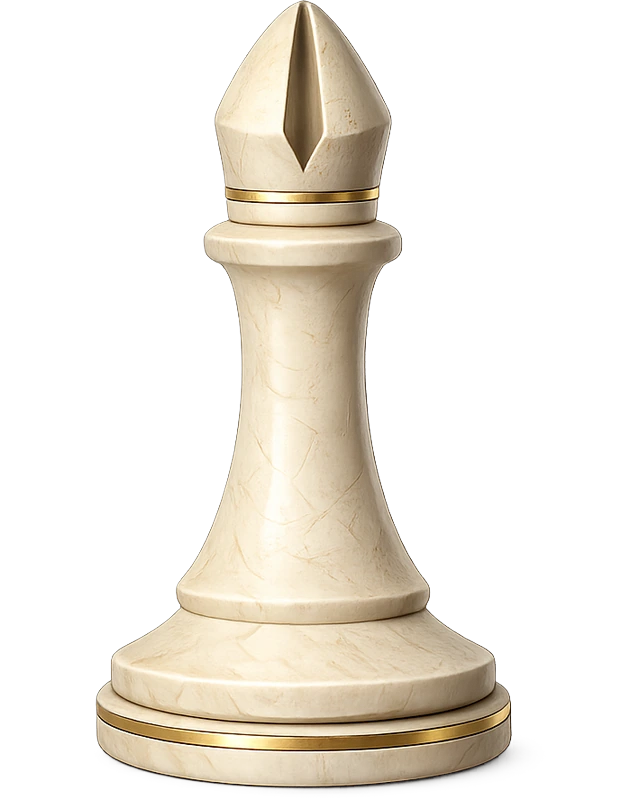
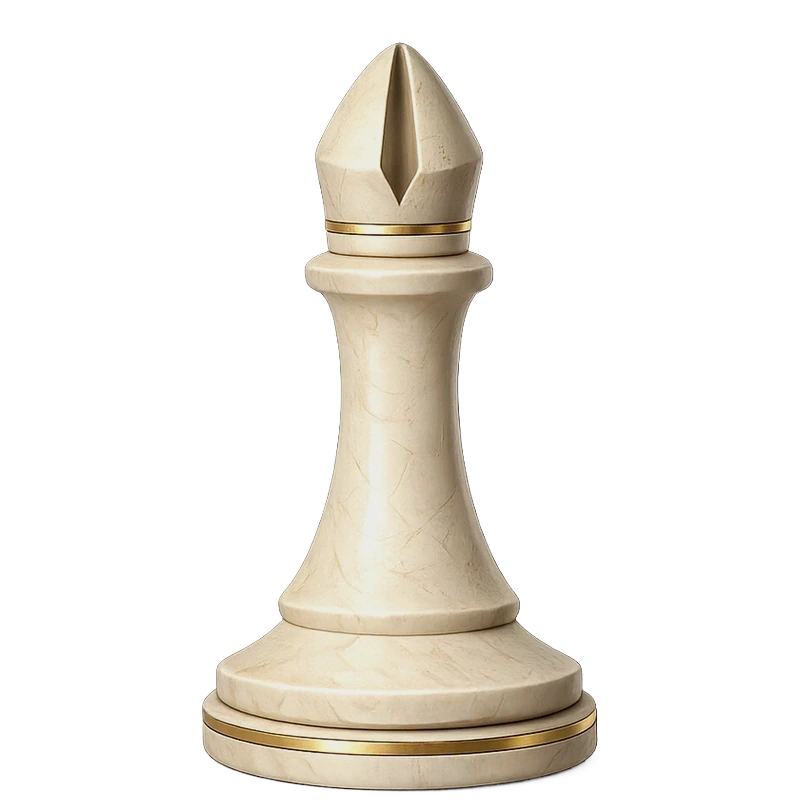
v0.87.0 KAMPAGNENFIGUREN ZURUECK - Regression aus v0.86 behoben: dort war die Figurenoptik an die Spielregeln gehaengt, und die fruehen Kampagnenstationen laufen nach Schachregeln, also standen dort Turnierfiguren statt der geschnitzten. Jetzt getrennt: klassikOptik (Aussehen, nie Kampagne) und schl

Changed region(s): [[0.125, 0.0, 0.8125, 1.0]]

diff --git a/src/app/ui/screens/GameScreen.jsx b/src/app/ui/screens/GameScreen.jsx
@@ -735,7 +735,20 @@ export function GameScreen({ profile, dispatch, t, match = null, onExit = null, 
      leisten, die es dort gar nicht gibt. Jetzt entscheidet die REGEL der
      laufenden Partie - und die kennt erst der Zustand, darum steht diese
      Zeile hier und nicht oben bei den Betriebsarten. */
-  const klassikOptik = klassikBasis || state.rules === "chess";
+  /* v0.87 - EIGENER FEHLER AUS v0.86, sofort behoben: dort habe ich "reines
+     Schach" an den REGELN erkannt und daran ALLES aufgehaengt - auch die
+     Figurenoptik. Die fruehen Kampagnenstationen laufen aber nach
+     Schachregeln, und so standen im Feldzug ploetzlich gewoehnliche
+     Turnierfiguren statt der geschnitzten. Das war Unsinn: im Feldzug
+     gehoeren IMMER die geschnitzten Figuren aufs Brett.
+     Darum jetzt ZWEI getrennte Begriffe:
+       klassikOptik - wie sieht das Brett aus? Nur die echte klassische
+                      Betriebsart (Schnellspiel "Klassisch", Tagesraetsel,
+                      klassisches Online-Duell). NIE die Kampagne.
+       schlichteRegeln - gelten Talente und Ausruestung? Daran haengen die
+                      Leisten und die Brettmitte, nicht das Aussehen. */
+  const schlichteRegeln = state.rules === "chess";
+  const klassikOptik = klassikBasis && !campaign;
   /* v0.86 (Besitzer): "bei klassischem Schach ist die Leiste unnoetig". Der
      Modus allein reicht als Bedingung aber nicht - auch im Modus SCHACH hat
      oft keine Figur Faehigkeiten (etwa bevor der Gambit erwacht), und dann
@@ -744,13 +757,13 @@ export function GameScreen({ profile, dispatch, t, match = null, onExit = null, 
      Schild oder eine Stufe ueber 1, erscheint die Leiste - sonst gehoert
      der Platz dem Brett. */
   const leisteNoetig = useMemo(() => {
-    if (klassikOptik) return false;
+    if (schlichteRegeln) return false;   // ohne Talente keine Talentleiste
     for (const p of state.board) {
       if (!p || p.color !== (hotseat ? state.turn : myColor)) continue;
       if ((p.abilities && p.abilities.length) || p.shield || (p.level || 1) > 1 || p.hero) return true;
     }
     return false;
-  }, [state.board, klassikOptik, hotseat, state.turn, myColor]);
+  }, [state.board, schlichteRegeln, hotseat, state.turn, myColor]);
 
   // DIE FELDER DES BESITZERS (v0.66): Kampagne traegt den Streifen ihres
   // Kapitels; der Endboss des letzten Kapitels bekommt die Blitz-Kachel auf
@@ -1151,7 +1164,7 @@ export function GameScreen({ profile, dispatch, t, match = null, onExit = null, 
             die nichts zu sagen hat, nimmt nur Platz und Aufmerksamkeit. Das
             Brett bekommt den ganzen Blick. */}
         {leisteNoetig && <KampfLeiste state={state} inspect={inspect} en={en} myColor={hotseat ? state.turn : WHITE} banner={!!banner} stil={profile.pieceStyle} />}
-        {!klassikOptik && ruestungsZeile}
+        {!schlichteRegeln && ruestungsZeile}
       </aside>
       {dailyDoneEl}
       {bannerEl}{raus}
@@ -1164,16 +1177,28 @@ export function GameScreen({ profile, dispatch, t, match = null, onExit = null, 
       /* v0.86: im reinen Schach fallen die Leisten weg - dann bliebe unten
          ein grosses Loch und das Brett klebte oben. Also rueckt es in die
          MITTE des freien Raums, wie der Besitzer es wollte. */
-      justifyContent: klassikOptik ? "center" : "flex-start" }}>
+      justifyContent: "flex-start" }}>
+      {/* v0.87 (Besitzer): die Kopfzeile - Zurueck, Gegner, Aufgeben - gehoert
+          an die OBERE KANTE, nicht in die Mitte. In v0.86 hatte ich den
+          GANZEN Zweig zentriert, um das Brett mittig zu bekommen; dabei
+          wanderte die Kopfzeile mit nach unten. Jetzt bleibt sie oben, und
+          nur der Raum DARUNTER wird mittig aufgeteilt. */}
       <div ref={topChromeRef} style={{ flex: "0 0 auto" }}>{headerBar}{enemyStrip}</div>
-      {boardBlock}
+      {/* Zwei blosse Abstandhalter mit flex:1 haben dem Brett den Platz
+          weggenommen - es schrumpfte auf ein Viertel (von der Sonde
+          gesehen). Stattdessen traegt ein RAHMEN den freien Raum und
+          zentriert das Brett darin; der Brettblock selbst behaelt seine
+          eigene Groessenrechnung. */}
+      {schlichteRegeln
+        ? <div style={{ flex: "1 1 auto", minHeight: 0, display: "flex", flexDirection: "column", justifyContent: "center" }}>{boardBlock}</div>
+        : boardBlock}
       <div ref={botChromeRef} style={{ flex: "0 0 auto" }}>{yourStrip}</div>
       {/* v0.86 (Besitzer): IM KLASSISCHEN SCHACH SCHWEIGT DIE LEISTE. Dort
             haben die Figuren keine Talente und keine Sonderzuege - eine Leiste,
             die nichts zu sagen hat, nimmt nur Platz und Aufmerksamkeit. Das
             Brett bekommt den ganzen Blick. */}
         {leisteNoetig && <KampfLeiste state={state} inspect={inspect} en={en} myColor={hotseat ? state.turn : WHITE} banner={!!banner} stil={profile.pieceStyle} />}
-      {!klassikOptik && ruestungsZeile}
+      {!schlichteRegeln && ruestungsZeile}
       {dailyDoneEl}
       {bannerEl}{raus}
     </div>

diff --git a/src/app/ui/screens/ArmyScreen.jsx b/src/app/ui/screens/ArmyScreen.jsx
@@ -830,7 +830,7 @@ function FormationEditor({ profile, dispatch, t, en }) {
               ? <img src={isHero ? gImg : pawnImg} alt="" draggable={false}
                   style={{ height: "clamp(20px, 8vw, 66px)", objectFit: "contain", objectPosition: "bottom", pointerEvents: "none",
                     filter: isHero ? "drop-shadow(0 1px 3px rgba(201,164,92,.5))" : "none" }} />
-              : <SlotGlyph kind="P" size={"clamp(18px, 7vw, 60px)"} art={"painted"} />}
+              : <SlotGlyph kind="P" size={"clamp(26px, 10vw, 84px)"} art={"painted"} />}
             {isHero && <span style={{ position: "absolute", bottom: 1, right: 2, fontSize: 8, fontWeight: 800,
               color: "#e9d296", textShadow: "0 1px 2px #000", pointerEvents: "none" }}>★</span>}
           </button>;
@@ -860,7 +860,7 @@ function FormationEditor({ profile, dispatch, t, en }) {
               : isBossEntry(id)
               ? <img src={paintedById("boss-" + bossEntryId(id)) || undefined} alt="" draggable={false}
                   style={{ height: "clamp(24px, 9.6vw, 78px)", objectFit: "contain", pointerEvents: "none" }} />
-              : <SlotGlyph kind={CHARACTERS[id].kind} size={"clamp(21px, 9vw, 74px)"} art={"painted"} />}
+              : <SlotGlyph kind={CHARACTERS[id].kind} size={"clamp(30px, 12.5vw, 100px)"} art={"painted"} />}
           </button>;
         })}
       </div>
@@ -878,7 +878,7 @@ function FormationEditor({ profile, dispatch, t, en }) {
           {dImg
             ? <img src={dImg} alt="" draggable={false} style={{ width: "94%", height: "94%", objectFit: "contain",
                 objectPosition: "center", filter: "drop-shadow(0 2px 6px rgba(0,0,0,.55))", pointerEvents: "none" }} />
-            : <SlotGlyph kind="D" size="clamp(48px, 18vw, 150px)" art={"painted"} />}
+            : <SlotGlyph kind="D" size="clamp(60px, 22vw, 180px)" art={"painted"} />}
           <span style={{ position: "absolute", bottom: 3, right: 4, fontSize: 10, fontWeight: 800,
             color: "#e9d296", textShadow: "0 1px 2px #000", pointerEvents: "none" }}>2×2</span>
         </div>;

diff --git a/CHANGELOG.md b/CHANGELOG.md
@@ -1,5 +1,38 @@
 # Changelog - Grand Gambit
 
+## 0.87.0
+
+DIE KAMPAGNENFIGUREN SIND ZURUECK - MEIN FEHLER AUS v0.86:
+
+- In v0.86 habe ich "reines Schach" an den REGELN erkannt und daran ALLES
+  aufgehaengt, auch die Figurenoptik. Die fruehen Kampagnenstationen laufen
+  aber nach Schachregeln - und so standen im Feldzug ploetzlich gewoehnliche
+  Turnierfiguren statt der geschnitzten. Jetzt sind es ZWEI Begriffe:
+  klassikOptik (nur echte klassische Betriebsart, NIE die Kampagne) fuer das
+  Aussehen, schlichteRegeln (state.rules === "chess") fuer Leisten und
+  Brettmitte. Sondenbeleg: 32 Bildfiguren auf dem Kampagnenbrett, 0 Vektor.
+- KLASSISCHE FIGUREN NORMIERT: der helle Turm hatte 574 px Sockelbreite
+  (kleinste im Satz: 389) und sass 32,5 px links aus der Mitte - genau was
+  der Besitzer sah. Jetzt gibt eine gestaffelte Vorgabe den Sockel vor
+  (Bauer 0,84 bis Koenig 1,0 von 430 px), alle exakt mittig und auf einer
+  Fusslinie. Sockelstreuung von 185 px auf 69 px, Mittenabweichung von
+  33,5 px auf 8 px.
+- HELLIGKEITEN ANGEGLICHEN: bei Schwarz waren Laeufer (56) und Dame (61)
+  deutlich dunkler als Koenig (81) und Turm (85). Der Besitzer bevorzugt
+  das hellere Anthrazit - alle liegen jetzt bei 79-80. Bei Creme desgleichen
+  auf 173-175, damit der Koenig nicht mehr heraussticht. Streuung von 28,6
+  auf 0,8 (dunkel) und von 21,5 auf 2,0 (hell).
+- KOPFZEILE WIEDER OBEN: in v0.86 hatte ich den ganzen Zweig zentriert, um
+  das Brett mittig zu bekommen - dabei wanderte die Kopfzeile mit nach
+  unten. Jetzt steht sie bei 10 px, und nur der Raum DARUNTER wird
+  aufgeteilt. Ein erster Versuch mit zwei Abstandhaltern nahm dem Brett den
+  Platz (es schrumpfte auf ein Viertel, von der Sonde gesehen); ein Rahmen
+  loest es richtig - Zellen wieder 47 px.
+- AUFSTELLUNG: die Figuren in den Kacheln waren kaum zu sehen. Die Deckel
+  stammten aus der Zeit, als Glyphe UND Beschriftung in eine 35-px-Zelle
+  mussten - die Beschriftung ist laengst fort. Deutlich angehoben
+  (7vw auf 10vw, 9vw auf 12,5vw, 18vw auf 22vw).
+
 ## 0.86.0
 
 REINES SCHACH IST REINES SCHACH - UND DIE FIGUREN STEHEN AUF EINER LINIE:
